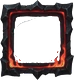
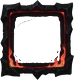
Tamahagane 2.17.1: jeszcze ciemniejsze kamienie i żelazo w ramach

diff --git a/margonem-tamahagane/margonem-tamahagane.user.js b/margonem-tamahagane/margonem-tamahagane.user.js
@@ -1,7 +1,7 @@
 // ==UserScript==
 // @name         Margonem – Tamahagane
 // @namespace    https://github.com/Harkryn/Dodatki
-// @version      2.17.0
+// @version      2.17.1
 // @description  Motyw nowego interfejsu (NI) z hartowanej stali tamahagane: żelazo z żarzącymi się pęknięciami, czarny lakier, tsuba i płynny żar. Tylko wygląd – bez zmian w logice gry.
 // @author       Harkryn
 // @match        https://*.margonem.pl/*
@@ -53,7 +53,7 @@
   // Stary interfejs (SI): gra zapisuje wybór w ciasteczku `interface` – w SI nic nie robimy.
   try { if (/(?:^|;\s*)interface=si\b/i.test(document.cookie || '')) return; } catch (e) { /* brak ciasteczek */ }
 
-  const VERSION = '2.17.0';
+  const VERSION = '2.17.1';
   const ON = 'tmg-on';          // motyw włączony
   const FX = 'tmg-fx';          // efekty (popiół, mgła) włączone
   const KEY_ON = 'tmg-enabled';

diff --git a/assets/tamahagane/PROMPTS.md b/assets/tamahagane/PROMPTS.md
@@ -89,3 +89,4 @@ Stylized hand-painted dark fantasy game UI element: a wide straight horizontal s
 
 ## Przyciemnienie (2.17.0, bez nowych promptów)
 Wszystkie grafiki motywu oprócz ikon i cieczy kuli HP przyciemnione lokalnie: piksele poza lawą × 0,68, lawa/żar (ciepły jasny kolor silniejszy od błękitu) bez zmian.
+2.17.1: kamień i żelazo w ramach, przyciskach, guzikach HUD, markizie, tooltipie, medalionie i tsubie jeszcze raz × 0,62 (razem ~0,42 pierwotnej jasności), lawa bez zmian.
